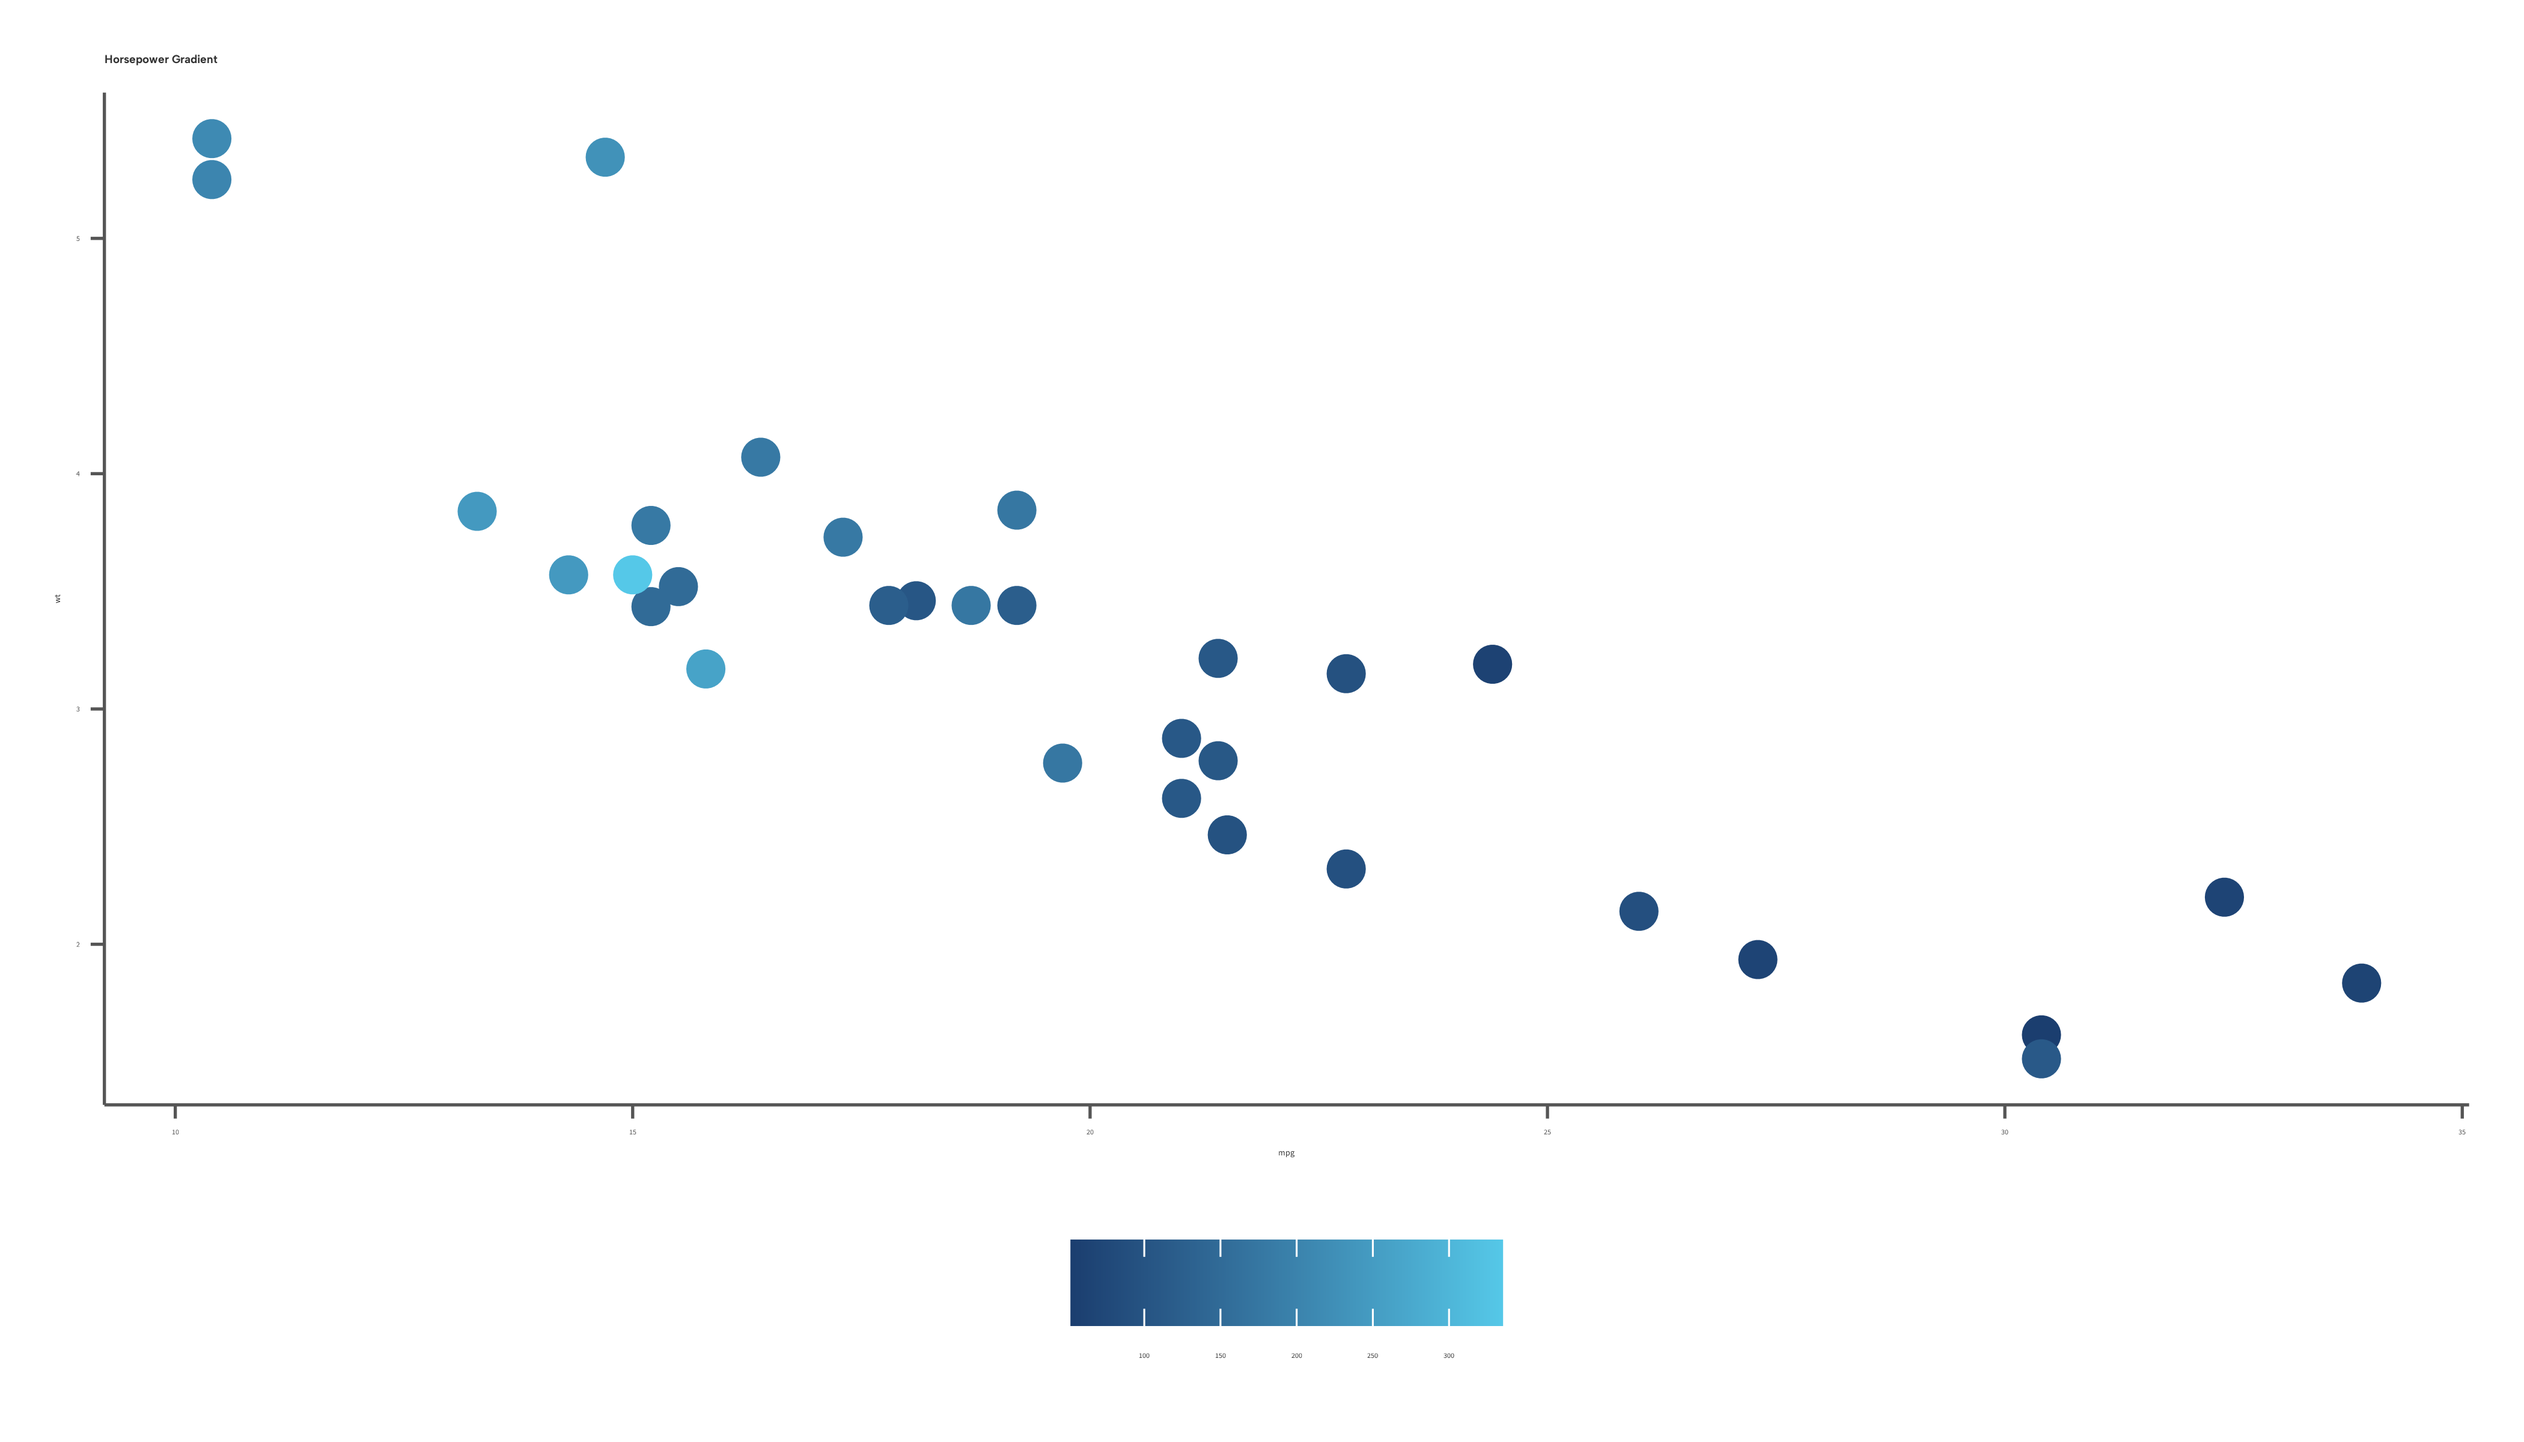
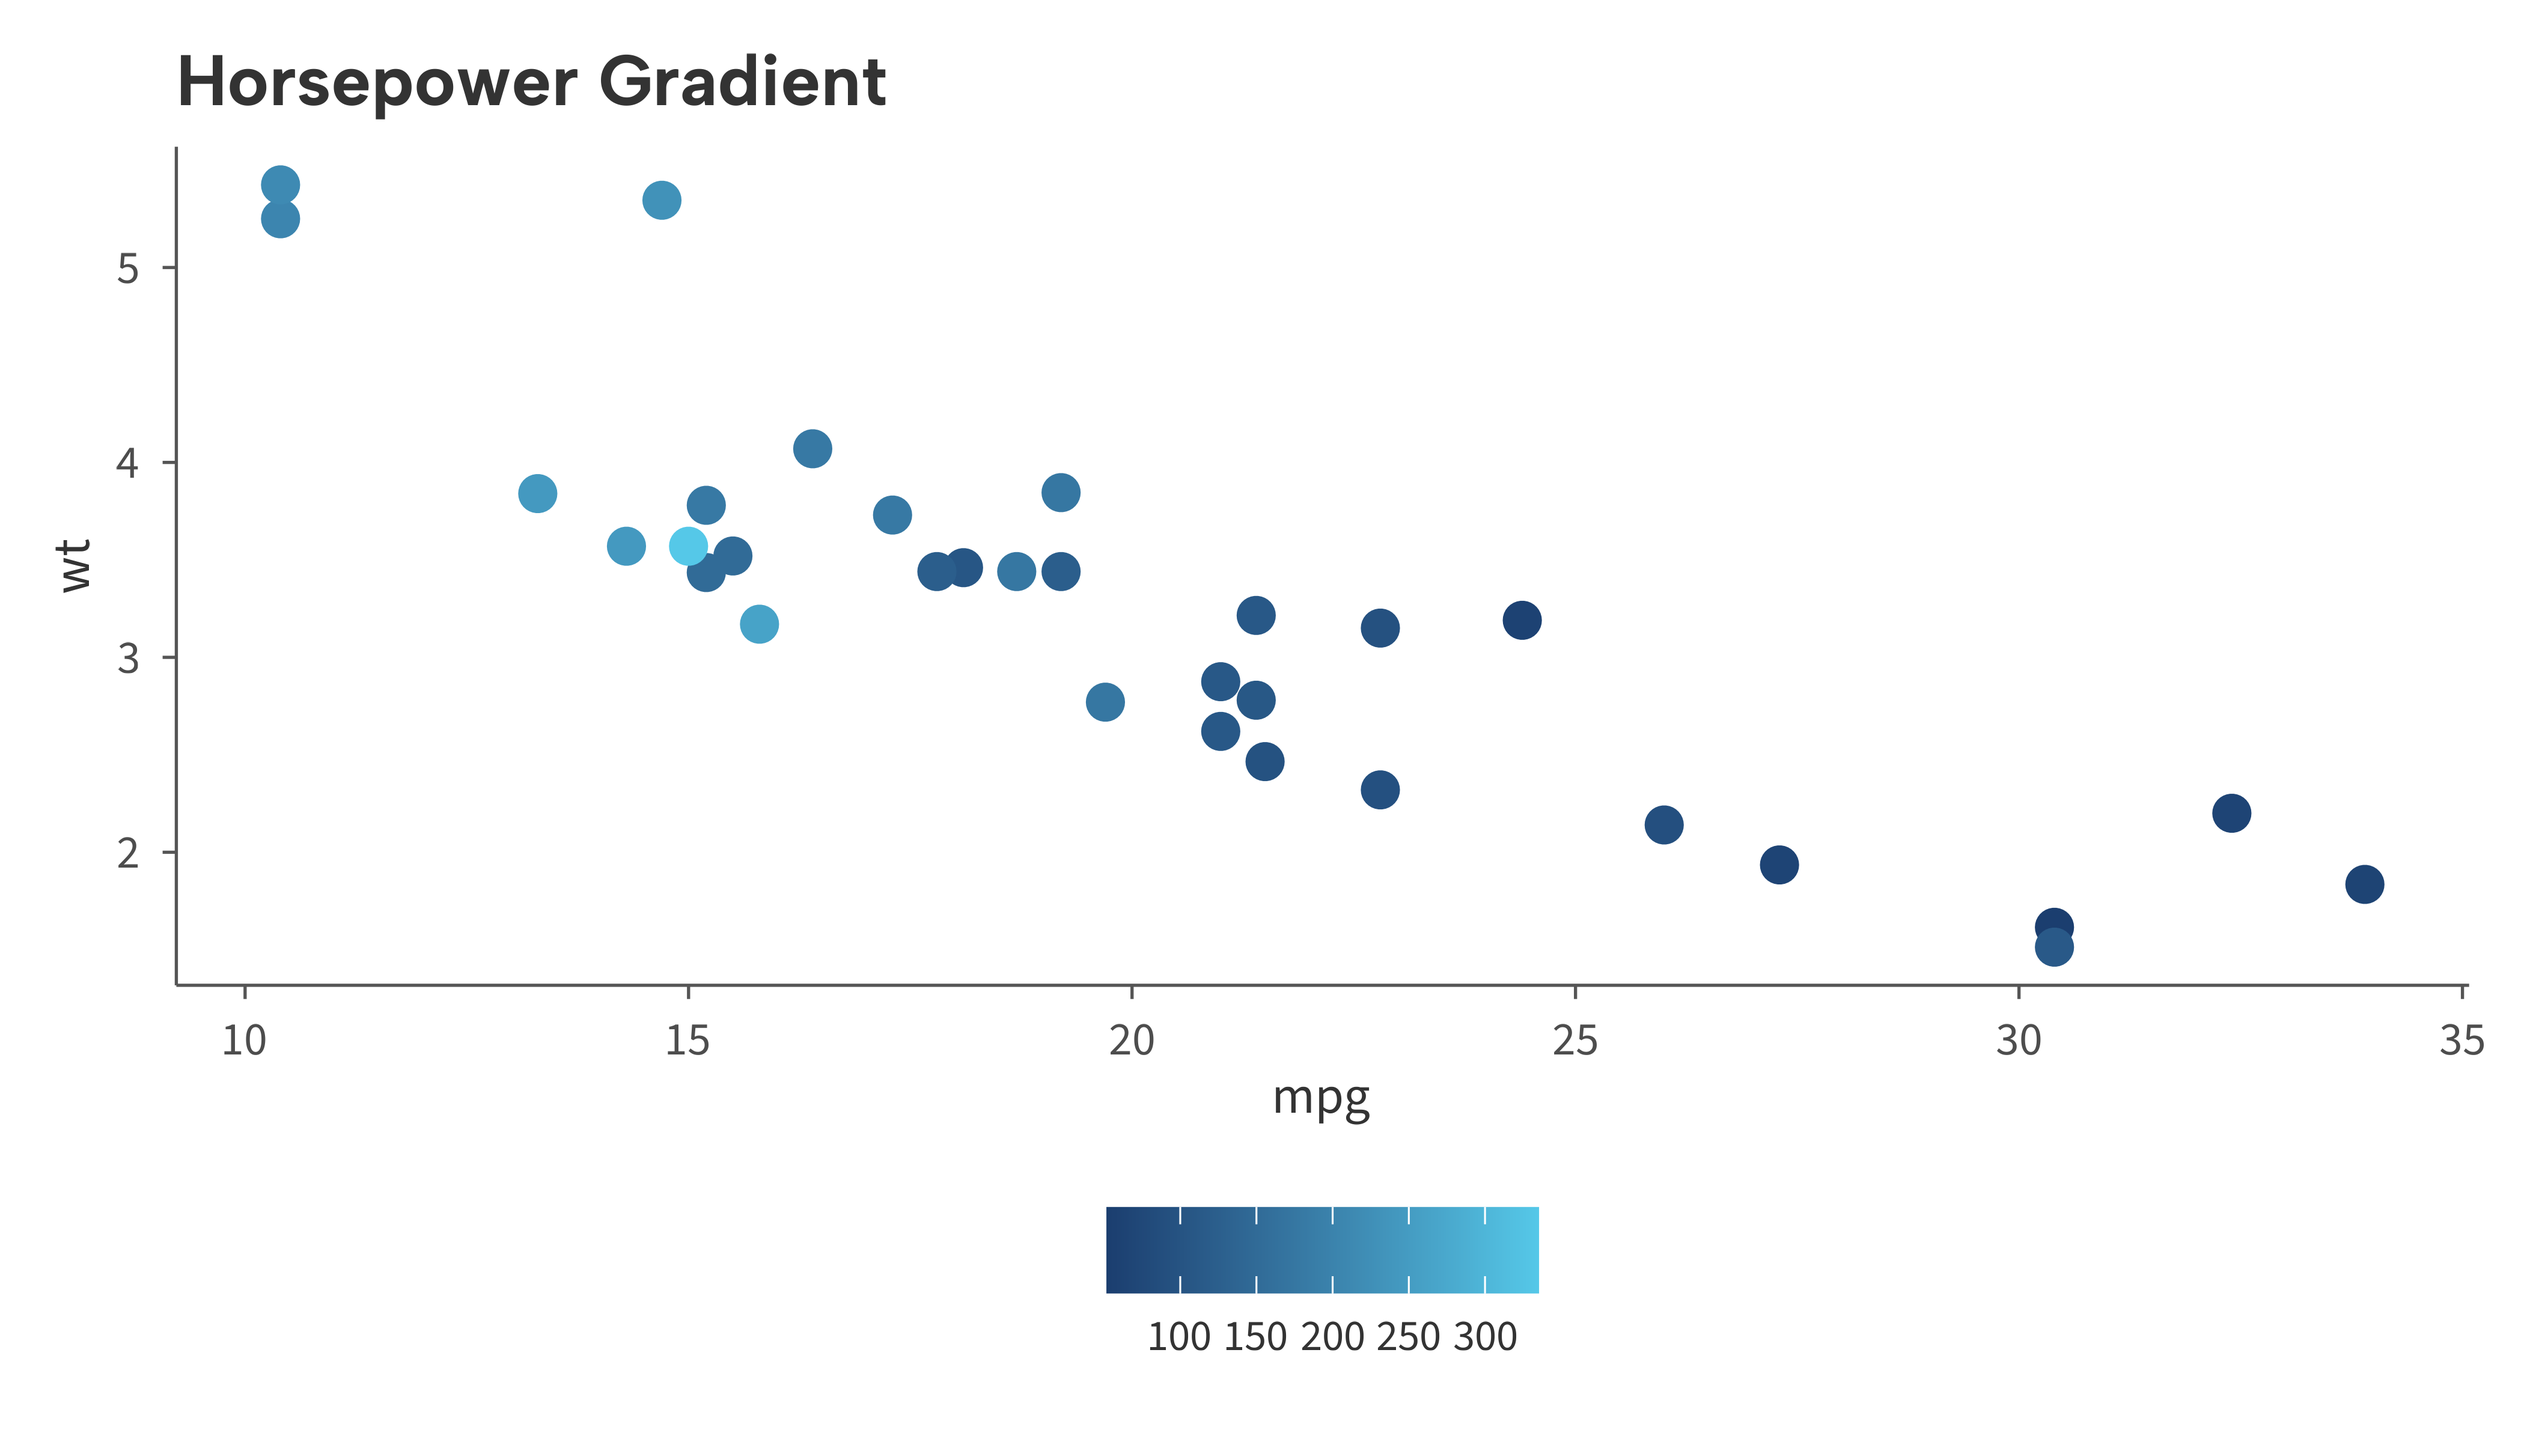
Re-knit README with correct showtext DPI font sizing

diff --git a/README.md b/README.md
@@ -18,6 +18,7 @@ devtools::install_github("andrewmcamp/ggaib")
 ``` r
 library(ggaib)
 library(ggplot2)
+#> Warning: package 'ggplot2' was built under R version 4.5.2
 
 aib_colors()
 #>      navy       red   emerald    yellow       sky     taupe     brown      gray 
